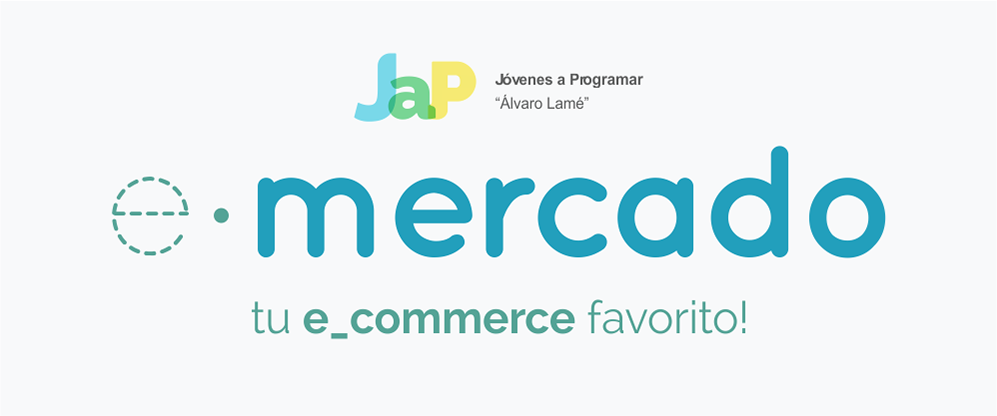
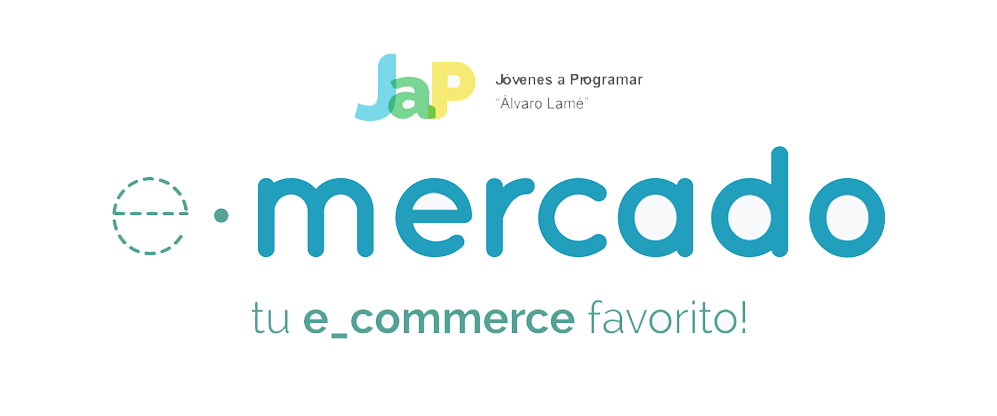
google log in

diff --git a/index.html b/index.html
@@ -1,23 +1,18 @@
-<!DOCTYPE html>
-<!-- saved from url=(0049)https://getbootstrap.com/docs/4.3/examples/album/ -->
-<html lang="en">
 
-<head>
-  <meta http-equiv="Content-Type" content="text/html; charset=UTF-8">
-  <meta name="viewport" content="width=device-width, initial-scale=1, shrink-to-fit=no">
-  <meta name="description" content="">
-  <title>eMercado - Todo lo que busques está aquí</title>
+<html lang="en">
+  <!DOCTYPE html>
+  <html lang="en">
+  <head>
+    <meta charset="UTF-8">
+    <meta http-equiv="X-UA-Compatible" content="IE=edge">
+    <meta name="viewport" content="width=device-width, initial-scale=1.0">
+    <title>Ingreso e-Mercado</title>
+
 
   <meta name="google-signin-scope" content="profile email">
   <meta name="google-signin-client_id" content="YOUR_CLIENT_ID.apps.googleusercontent.com">
   <script src="https://apis.google.com/js/platform.js" async defer></script>
 
-  <link href="//maxcdn.bootstrapcdn.com/bootstrap/4.0.0/css/bootstrap.min.css" rel="stylesheet" id="bootstrap-css">
-<script src="//maxcdn.bootstrapcdn.com/bootstrap/4.0.0/js/bootstrap.min.js"></script>
-<script src="//cdnjs.cloudflare.com/ajax/libs/jquery/3.2.1/jquery.min.js"></script>
-
-  <link rel="canonical" href="https://getbootstrap.com/docs/4.3/examples/album/">
-  <link href="https://fonts.googleapis.com/css?family=Raleway:300,300i,400,400i,700,700i,900,900i" rel="stylesheet">
   <!-- Bootstrap core CSS -->
   <link href="css/bootstrap.min.css" rel="stylesheet">
   <link href="css/stylelogin.css" rel="stylesheet">
@@ -28,7 +23,6 @@
 
   <div class="wrapper fadeInDown">
     <div id="formContent">
-      <!-- Tabs Titles -->
   
       <!-- Icon -->
       <div class="fadeIn first">
@@ -41,7 +35,7 @@
         <input type="text" id="password" class="fadeIn third" name="password" placeholder="Contraseña">
         <input type="submit" class="fadeIn fourth" value="Ingresar"> 
       </form>
-      <div class="g-signin2" data-onsuccess="onSignIn" data-theme="dark"></div>
+      <div class="g-signin2" data-onsuccess="onSignIn" data-theme="light"></div>
       <script>
         function onSignIn(googleUser) {
           // Useful data for your client-side scripts:
@@ -58,18 +52,8 @@
           console.log("ID Token: " + id_token);
         }
       </script>
-    </div>
-      <!-- Remind Passowrd -->
-      <div id="formFooter">
-        <a class="underlineHover" href="#">¿Olvidaste la contraseña?</a>
-      </div>
-
-     
-      
+    </div>     
   </div>
-
-
-
 
   <script src="js/init.js"></script>
   <script src="js/login.js"></script>

diff --git a/css/stylelogin.css b/css/stylelogin.css
@@ -1,5 +1,5 @@
 html {
-    background-color: #56baed;
+    background-color: #229fbc;
   }
   
   body {
@@ -71,7 +71,7 @@ html {
   
   h2.active {
     color: #0d0d0d;
-    border-bottom: 2px solid #5fbae9;
+    border-bottom: 2px solid #229fbc;
   }
   
   
@@ -79,7 +79,7 @@ html {
   /* FORM TYPOGRAPHY*/
   
   input[type=button], input[type=submit], input[type=reset]  {
-    background-color: #56baed;
+    background-color: #229fbc;
     border: none;
     color: white;
     padding: 15px 80px;
@@ -101,7 +101,7 @@ html {
   }
   
   input[type=button]:hover, input[type=submit]:hover, input[type=reset]:hover  {
-    background-color: #39ace7;
+    background-color: #229fbc;
   }
   
   input[type=button]:active, input[type=submit]:active, input[type=reset]:active  {
@@ -135,7 +135,7 @@ html {
   
   input[type=text]:focus {
     background-color: #fff;
-    border-bottom: 2px solid #5fbae9;
+    border-bottom: 2px solid #229fbc;
   }
   
   input[type=text]:placeholder {
@@ -233,7 +233,7 @@ html {
     bottom: -10px;
     width: 0;
     height: 2px;
-    background-color: #56baed;
+    background-color: #229fbc;
     content: "";
     transition: width 0.2s;
   }
@@ -260,8 +260,11 @@ html {
 
   .g-signin2{
     width: 100%;
+    
   }
   
   .g-signin2 > div{
-    margin: 0 auto;
+    margin:  auto;
+    margin-bottom: 25px;
+   
   }
